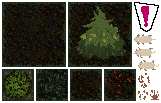
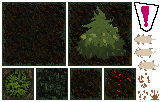
Tile Generation created and asset modification.

diff --git a/game.js b/game.js
@@ -54,6 +54,7 @@ function start() {
                 update: function () {}
             });
 
+            /*
             testSprite.scale = {x: 2, y: 2};
             //testSprite.filters = [new PIXI.PixelateFilter()];
             app.currentScene.addEntity({
@@ -61,6 +62,8 @@ function start() {
               sprite: testSprite,
               update: function () {}
             });
+            */
+            MapGeneration();
         }, app);
 
         app.addScene(loadingScene);
@@ -74,22 +77,66 @@ function start() {
 
 function MapGeneration() {
     var worldSize = 1024;
-    var tileOffset = 32;
+
     var mapContainer = new PIXI.DisplayObjectContainer();
     var texture = new PIXI.RenderTexture();
     texture.render(mapContainer);
 
-    /*
-        var map = [
-        for(){
-            for(){
-                [5,5,5,5,5],
-            }
-            if(i-n eq 1){
-                [5,5,5,5,5]];
-            }
+    function onloadGenerate(x,oX,oY){
+        var label = x.split('.');
+        var methodLabel = 'load'+label[0];
+        methodLabel = new PIXI.Sprite.fromFrame(x);
+        methodLabel.scale = {x: 2, y: 2};
+        app.currentScene.addEntity({
+          type: label[0],
+          sprite: methodLabel,
+          update: function () {}
+        });       
+        // var assign obj and add it to the scene and //
+        methodLabel.position = new SL.Vec2(oX, oY);
+    }
+//DRAW//
+//INVOKE WHILE < World Map Size//
+    var jsonObj;
+    xhr = new XMLHttpRequest();
+    xhr.onload = function () { 
+        jsonObj = JSON.parse(this.responseText); 
+        var keys = [];
+        var tileKeys = [];
+        var oX=0;
+        var oY=0;
+        var i = 0;
+        for(var key in jsonObj.frames){
+          keys.push(key);
         }
-    */
+        for(var i=0;i<keys.length;i++){
+            if(keys[i] == 'alert.PNG' || keys[i] == 'clickGround1.PNG' || keys[i] == 'clickGround2.PNG' || keys[i] == 'clickGround3.PNG' || keys[i] == 'puppyWalk1.PNG' || keys[i] == 'puppyWalk2.PNG' || keys[i] == 'puppyWalk3.PNG'){
+            }else{
+                tileKeys.push(keys[i]);
+            }            
+        }
+        for(var j=0;j<worldSize;j+=64){
+            var selector = Math.floor(Math.random() * tileKeys.length);
+            onloadGenerate(tileKeys[selector],oX,oY);
+            if(tileKeys[selector] == 'tree.PNG' || tileKeys[selector] == 'dirt.PNG'){
+                oX += 64;
+            } else {
+                for(var i=0;i<2;i++){
+                    var r = Math.floor(Math.random() * tileKeys.length);
+                    if(tileKeys[r] == 'tree.PNG' || tileKeys[r] == 'dirt.PNG'){
+                    } else{
+                        var yO = oY;
+                        yO = oY + 64;                      
+                        onloadGenerate(tileKeys[r],oX,yO);
+                    }
+                }                
+                oX = oX;
+            }
+            oX+=64;                            
+        }
+    };
+    xhr.open('get', 'res/atlas.json', true);
+    xhr.send();
     /*
     var TileCheck : function(){
         for(var i=0;i<worldSize;i++){
